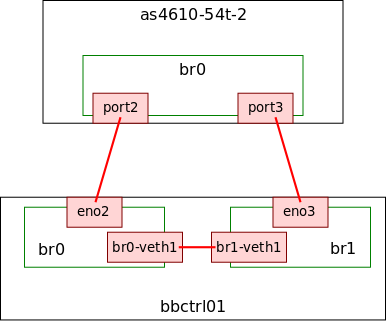
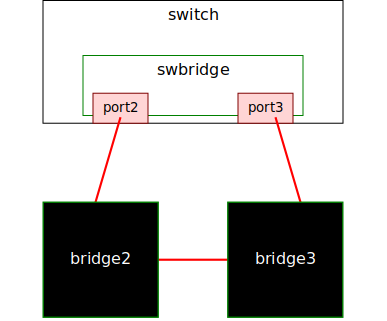
update image; update comments

diff --git a/network_configuration/stp.md b/network_configuration/stp.md
@@ -1,13 +1,13 @@
 ---
-title: Spanning Tree (xSTP)
+title: Spanning Tree (STP)
 parent: Network Configuration
 ---
 
-# Spanning Tree (xSTP)
+# Spanning Tree (STP)
 
 ## Introduction
 
-The Spanning Tree Protocol (STP) is a protocol meant to build loop-less topologies in L2 networks. It works by distributively creating network paths without loops that could be harmful in case of e.g. flooding broadcast messages, by disabling (blocking) ports in the configured bridges. This document shows how to configure and test the STP implementation available in Linux.
+The Spanning Tree Protocol (STP) is a protocol meant to build loop-less topologies in Layer 2 networks. It works by distributively creating network paths without loops that could be harmful in case of e.g. flooding broadcast messages, by disabling (blocking) ports in the configured bridges. This document shows how to configure and test the STP implementation available in Linux.
 
 **WARNING**: BISDN Linux currently supports standard STP (IEEE Standard 802.1d) and RSTP (IEEE Standard 802.1w). For current network topologies, RSTP is the protocol more commonly used. For RSTP you *have* to use the packaged [mstpd](https://github.com/mstpd/mstpd).
 {: .label .label-yellow }
@@ -32,8 +32,8 @@ We can see the ports that are configured in bridges, along with their STP state,
 
 ```
 agema-ag4610:~$ bridge link
-15: port2: <BROADCAST,MULTICAST,UP,LOWER_UP> mtu 1500 master br0 state forwarding priority 32 cost 2
-16: port3: <BROADCAST,MULTICAST,UP,LOWER_UP> mtu 1500 master br0 state forwarding priority 32 cost 3
+15: port2: <BROADCAST,MULTICAST,UP,LOWER_UP> mtu 1500 master swbridge state forwarding priority 32 cost 2
+16: port3: <BROADCAST,MULTICAST,UP,LOWER_UP> mtu 1500 master swbridge state forwarding priority 32 cost 2
 ```
 
 After setting up the bridge and bridge ports, the STP state on the bridge can be managed over the `brctl` utility. The following example shows the output of a `brctl` command:
@@ -79,6 +79,7 @@ Meant as an improvement to the original STP standard, RSTP improves Spanning Tre
 
 There is currently no RSTP support in the Linux Kernel and therefore BISDN Linux uses [mstpd](https://github.com/mstpd/mstpd) to configure and manage RSTP.
 
+mstpd is managed by systemd and is disabled by default. For documentation on how to manage the service refer to [systemd getting started](https://docs.bisdn.de/getting_started/configure_baseboxd.html#getting-started).
 
 ## RSTP configuration
 
@@ -88,7 +89,7 @@ The same topology as above is considered in this scenario.
 ip link add name swbridge type bridge vlan_filtering 1
 ```
 
-mstpd takes over the stp_state flag and instead of setting it to 1 (referring to the Kernel implementation), it will be set to 2 (referring to the Userspace implementation of STP, in this case handled by mstpd). 
+The stp_state flag has three possible values: 0, 1, 2. By choosing 1 then the Kernel implementation of STP will be used, and when choosing 2 then there is a Userspace implementation of STP. Enabling mstpd will set this value to 2 on the bridges.
 
 The following steps of configuring the ports and attaching them to the bridge can be seen in [VLAN Bridging](network_configuration/vlan_bridging.html#vlan-bridging-8021q).
 
